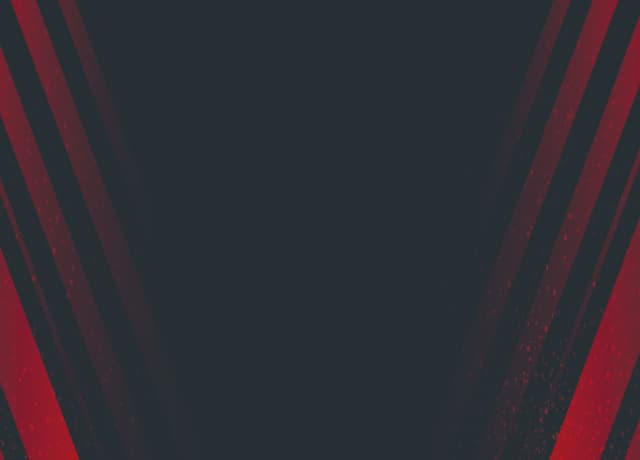
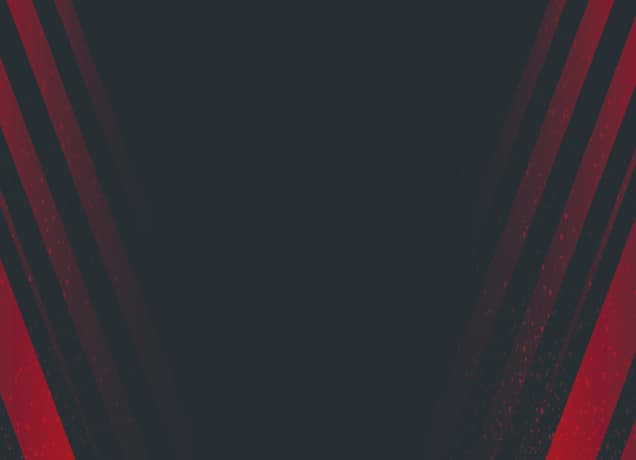
приїхали фото під ретину та медіазап

diff --git a/src/sass/layout/_header.scss b/src/sass/layout/_header.scss
@@ -1,17 +1,42 @@
 .films-header {
-
     background-repeat: no-repeat;
     background-size: cover;
     background-position: center;
+
+    font-family: 'Roboto';
+
 }
 
 .films-header--home {
-    background-image: url('../img/abstract-background-with-red-lines\ 1.jpg');
+
+background-image: url('../img/abstract-background-with-red-lines\ 1.jpg');
 
 @include retina {
     background-image: url('../img/abstract-background-with-red-lines\ 1@2x.jpg');
 }
+
+@include tablet {
+    background-image: url('../img/Tb_abstract-background-with-red-lines\ 1.jpg');
+    @include retina {
+        background-image: url('../img/Tb_abstract-background-with-red-lines\ 1@2x.jpg');
+    }
 }
+
+@include desktop {
+    background-image: url('../img/Ds_abstract-background-with-red-lines\ 1.jpg');
+    @include retina {
+        background-image: url('../img/Ds_abstract-background-with-red-lines\ 1@2x.jpg');
+    }
+}
+
+@media screen and (min-width: 1600px) {
+    background-image: url('../img/abstract-background-with-red-lines\ 1@2x.jpg');
+    background-repeat: repeat;
+    background-size: auto;
+}
+
+}
+
 
 .films-header--library {
     background-image: url('../img/Rectangle\ 1.jpg');
@@ -19,15 +44,60 @@
     @include retina {
         background-image: url('../img/Rectangle\ 1@2x.jpg');
     }
+    @include tablet {
+        background-image: url('../img/Tb_Rectangle\ 1.jpg');
+        @include retina {
+            background-image: url('../img/Tb_Rectangle\ 1@2x.jpg');
+        }
+    }
+    @include desktop {
+        background-image: url('../img/Ds_Rectangle\ 1.jpg');
+        @include retina {
+            background-image: url('../img/Ds_Rectangle\ 1@2x.jpg');
+        }
+    }
+
+    @media screen and (min-width: 1600px) {
+        background-image: url('../img/Rectangle\ 1@3x.jpg');
+        background-repeat: repeat;
+        background-size: contain;
+    }
 }
+
 .films-header__wrap {
-    padding-top: 40px;
-    padding-bottom: 92px;
-    max-width: 1200px;
+  
+    max-width: 100%;
+    padding: 10px;
+
     margin: 0 auto;
+
+@media screen and(min-width: 320px) {
+width: 320px;
+
+    padding-top: 40px;
+padding-bottom: 92px;
+    padding-left: 20px;
+    padding-right: 22px;
+ 
+}
+ @include mobile {
+   width: 480px;     
+      }
+    
+      @include tablet {
+        width: 768px;
+        padding-left: 32px;
+        padding-right: 32px;
+        padding-bottom: 80px;
+        }
+    
+      @include desktop {
+        width: 1220px;
+      }
+    }
   
 
-}
+
 
 .films-header__logo {
     color: var(--color-background-footer);
@@ -35,7 +105,10 @@
     font-size: 30px;
     line-height: calc(35 / 30);
     margin-left: 8px;
-    display: none;
+    @media screen and (max-width: 480px) {
+        display: none;
+    }
+   
 }
 
 .films-header__nav-wrap {
@@ -53,8 +126,12 @@
 }
 
 .films-header__nav-item + .films-header__nav-item {
-    margin-left: 39px;
-}
+    margin-left: 10px;
+    @media screen and(min-width: 320px) {
+        margin-left: 39px;
+    }
+    }
+   
 
 .films-header__nav-link {
     position: relative;
@@ -80,14 +157,20 @@ color:var(--color-text-white);
 
 .films-header__search-form {
     position: relative;
-    max-width: 336px;
+    @media screen and (max-width: 767.98px) {
+       max-width: 336px; 
+    }
+    max-width: 394px;
     margin: 0 auto;
     border-bottom:0.5px solid #fff;
 
 }
 
 .films-header__input {
-  min-width: 280px;
+    
+    @media screen and (min-width: 320px) {
+        min-width: 280px;
+    }
     padding: 0 0 4px; 
 
 background: rgba(232, 225, 225, 0);
@@ -116,21 +199,40 @@ color: var(--color-text-white);
 }
 
 .films-header__button {
-    padding: 14px;
+    padding-top: 14px;
+    padding-bottom: 12px;
+   @media screen and (min-width: 320px) {
     min-width: 120px;
+   }
+
+   @include mobile {
+    min-width: 130px;
+   } 
+   @include tablet {
+    min-width: 150px;
+   }
     
         font-weight: 500;
     font-size: 12px;
     line-height: calc(16 / 12);
-    color: #fff;
+    color: var(--color-text-white);
     border: 1px solid #fff;
     border-radius: 5px;
         text-transform: uppercase;
-    
-        background: #f6f1f101;
-    }
+        background-color: rgba(255, 255, 255, 0);
+        }
     
         .films-header__button-right {
-            margin-left: 20px;
+            @media screen and (min-width: 320px) {
+                margin-left: 20px;
+
+            }
         }
+
+        .is-on {
+            border: none;
+            background-color: var(--color-hoverfocus);
+            box-shadow: 0px 0px 32px 6px #ff6b01bd;
+            -webkit-box-shadow: 0px 0px 32px 6px #ff6b01bd;
+            -moz-box-shadow: 0px 0px 32px 6px #ff6b01bd;     }
     

diff --git a/src/partials/queue/header-queue.html b/src/partials/queue/header-queue.html
@@ -1,5 +1,5 @@
 <header class="films-header films-header--library">
-  <div class="films-header__wrap container">
+  <div class="films-header__wrap">
     <div class="films-header__nav-wrap">
       <a href="" class="films-header__link"><svg class="films-header__icon"
         width="24" height="24"><use href="./img/symbol-defs.svg#icon-film"></use>
@@ -14,7 +14,7 @@
     </div>
     <div class="films-header__button-wrap">
       <button type="button" class="films-header__button">watched</button>
-      <button type="button" class="films-header__button films-header__button-right">queue</button>
+      <button type="button" class="films-header__button is-on films-header__button-right">queue</button>
     </div>
 
 

diff --git a/src/sass/layout/_footer.scss b/src/sass/layout/_footer.scss
@@ -1,15 +1,24 @@
 .films-footer {
-    color: var(--color-text-footer);
+    
     background:  var(--color-background-footer);
     max-width: 100%;
     text-align: center;
+font-family: 'Roboto';
+    color: var(--color-text-footer);
 
   }
 
   .films-footer__wrap {
 padding-top: 30px;
 padding-bottom: 30px;
+max-width: 1280px;
 
+  }
+  .films-footer__wrap.container {
+    @media screen and(max-width: 320px) {
+      max-width: 100%;
+    }
+  
   }
 
 
@@ -50,5 +59,6 @@ padding-bottom: 30px;
 
   }
   .films-footer__link {
+    text-decoration: underline;
     color: currentColor;
   }

diff --git a/src/partials/header.html b/src/partials/header.html
@@ -1,5 +1,5 @@
 <header class="films-header films-header--home">
-  <div class="films-header__wrap container">
+  <div class="films-header__wrap">
     <div class="films-header__nav-wrap">
       <a href="" class="films-header__link"><svg class="films-header__icon"
         width="24" height="24"><use href="./img/symbol-defs.svg#icon-film"></use>
